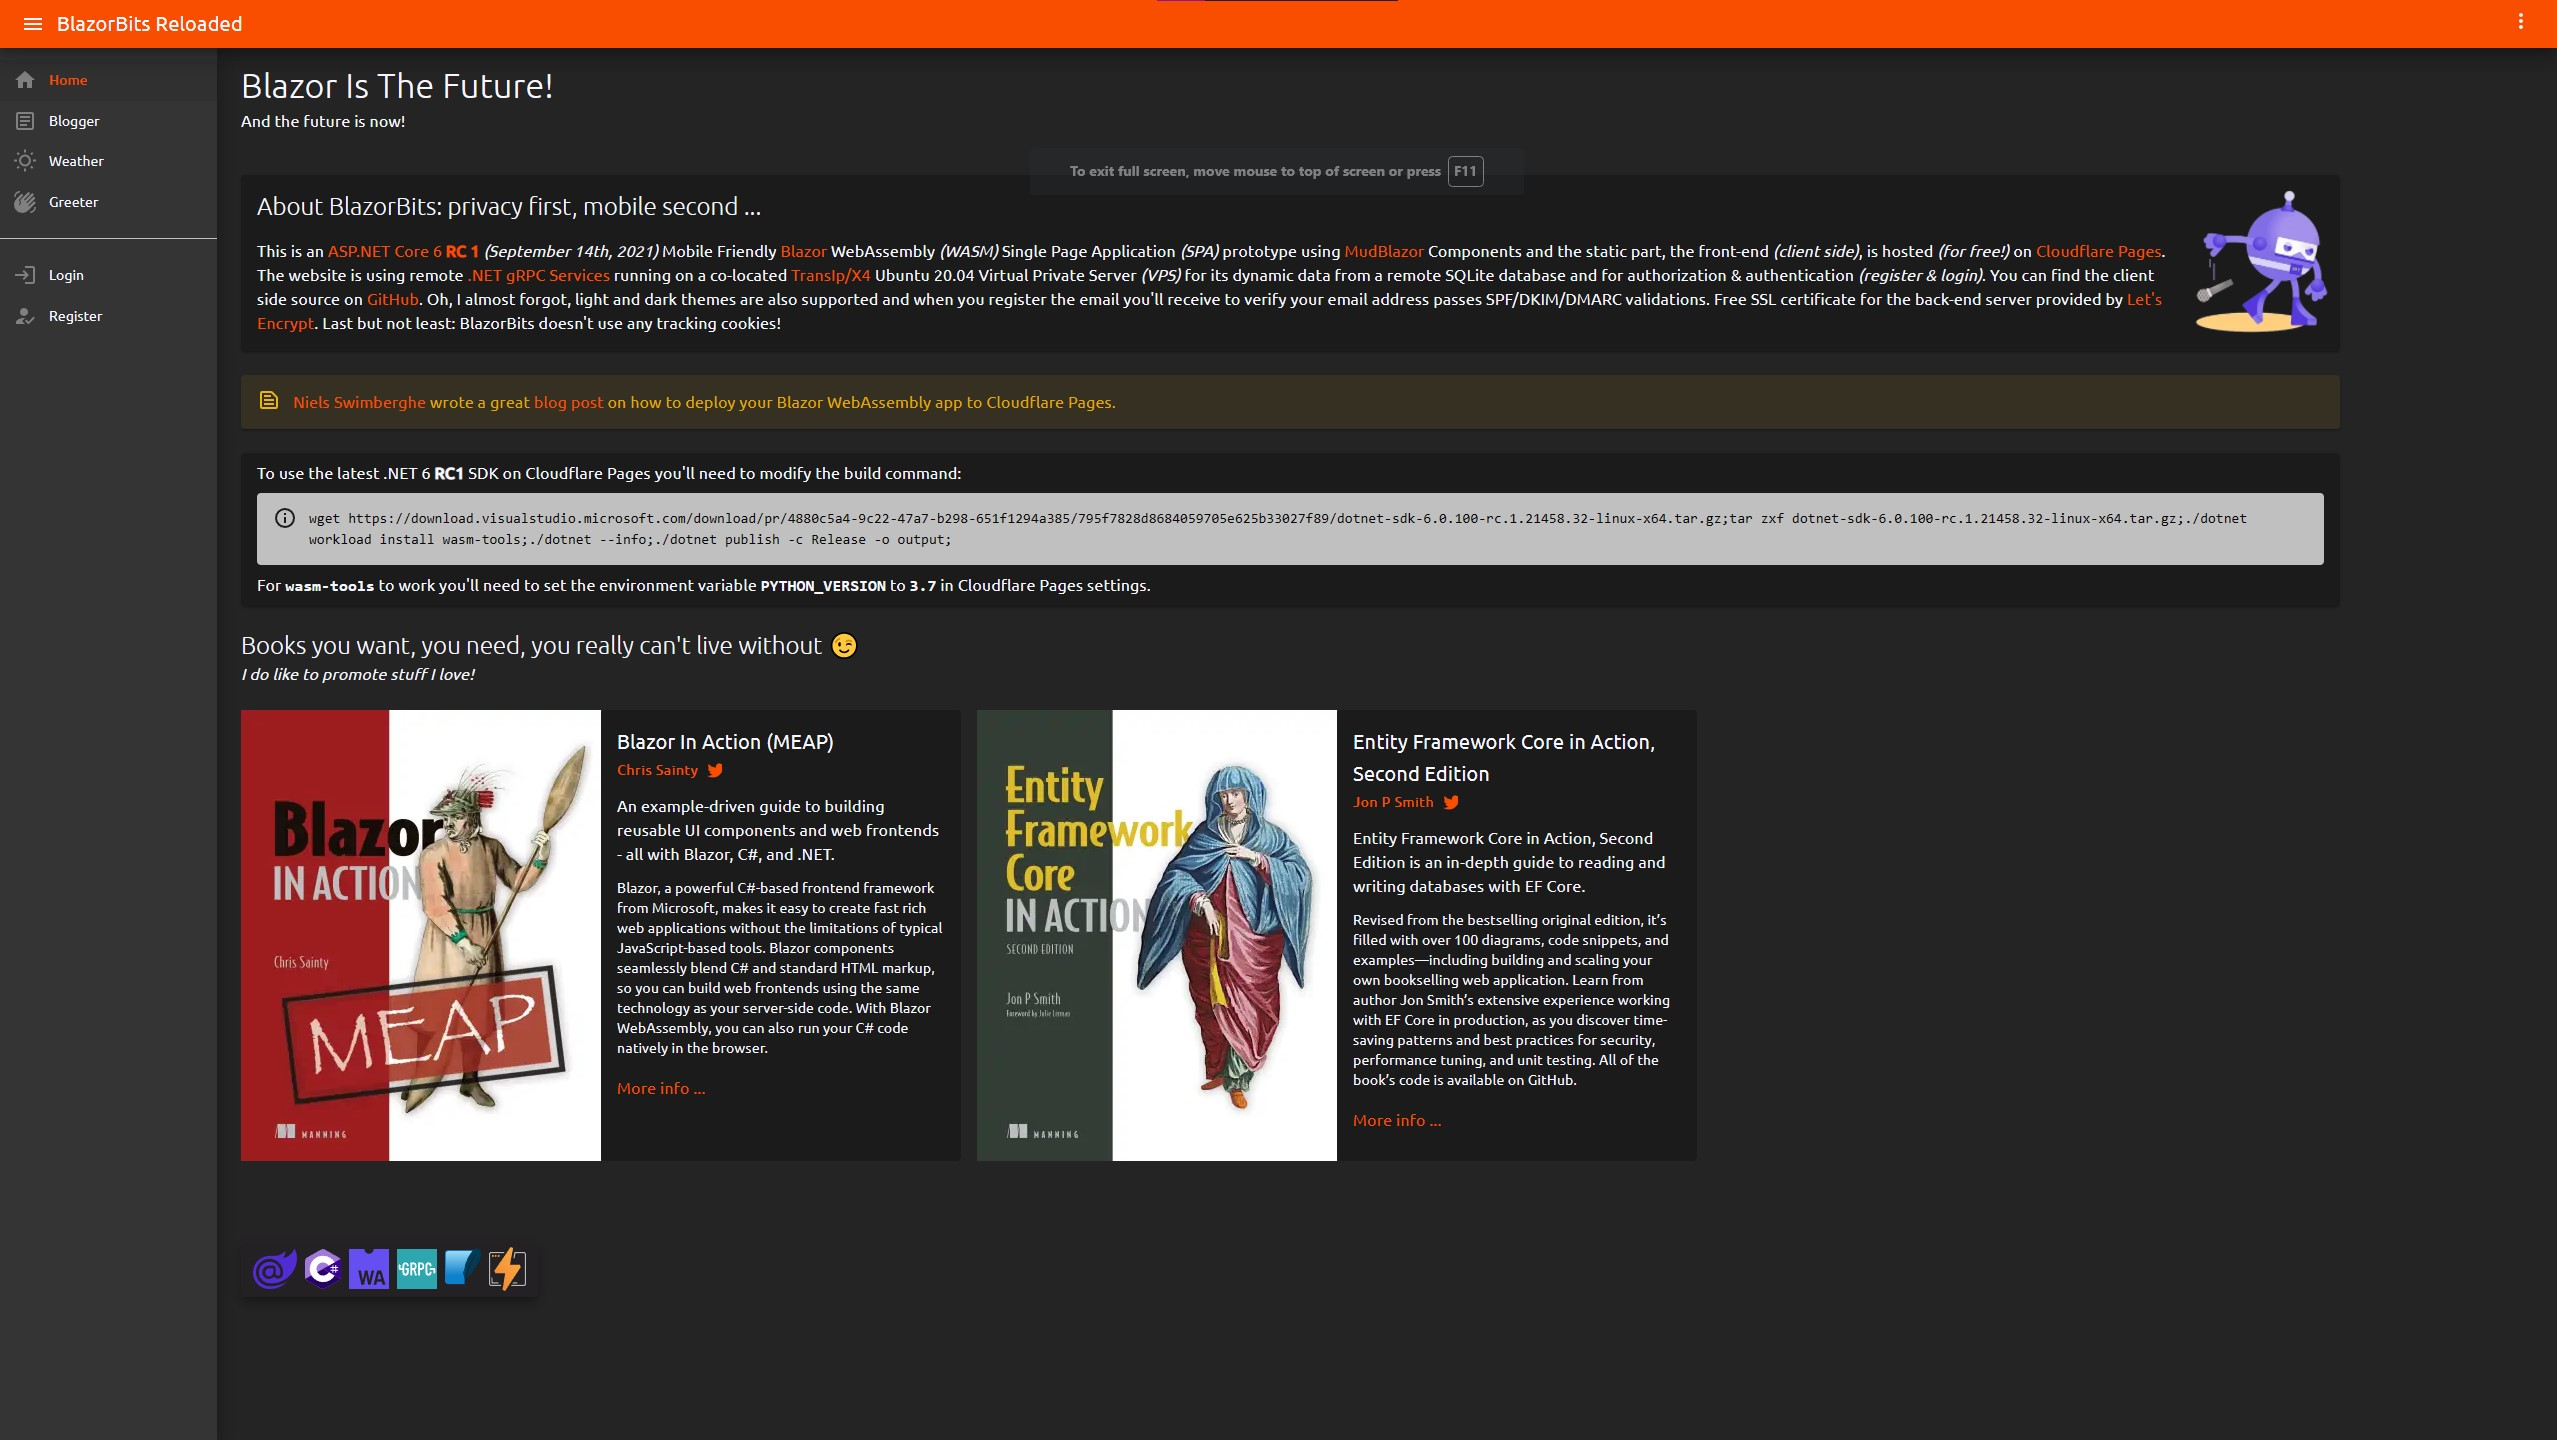
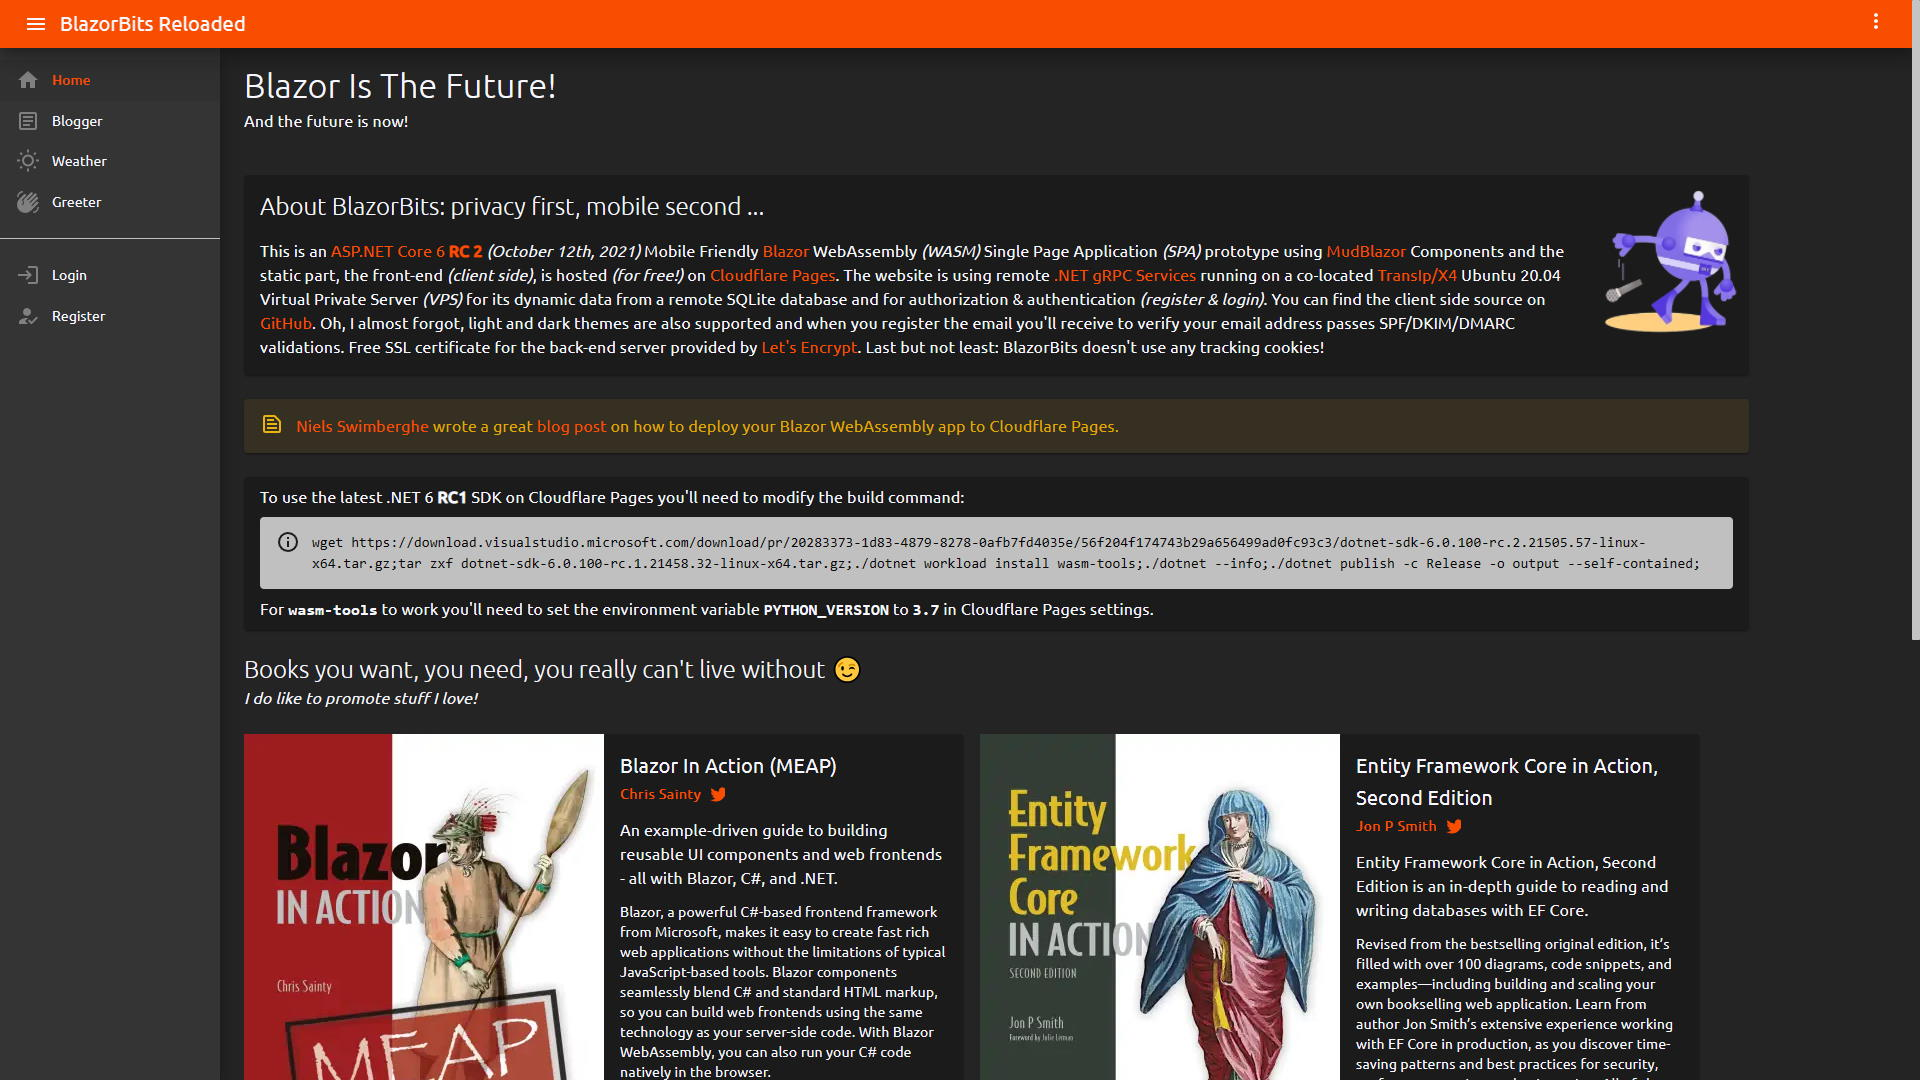
Upgraded to .NET 6 RC2 - RC TWOOOOO!

diff --git a/News/Program.cs b/News/Program.cs
@@ -6,74 +6,73 @@ using Microsoft.AspNetCore.Components.Web;
 using Microsoft.AspNetCore.Components.WebAssembly.Hosting;
 using MudBlazor;
 using MudBlazor.Services;
+using News;
 using News.Helpers;
 using News.Services;
 
-namespace News
+//namespace News;
+//public class Program
+//{
+//	public static async Task Main(string[] args)
+//	{
+var builder = WebAssemblyHostBuilder.CreateDefault(args);
+
+// Modify HTML <head> in components: https://devblogs.microsoft.com/aspnet/asp-net-core-updates-in-net-6-preview-7/
+builder.RootComponents.Add<HeadOutlet>("head::after");
+builder.RootComponents.Add<App>("#app");
+
+builder.Services.AddSingleton(sp => new HttpClient { BaseAddress = new Uri(builder.HostEnvironment.BaseAddress) });
+
+builder.Services.AddOptions();
+builder.Services.AddAuthorizationCore(config =>
 {
-	public class Program
+	config.AddPolicy(Policies.IsAdministrator, Policies.IsAdministratorPolicy());
+	config.AddPolicy(Policies.IsModerator, Policies.IsModeratorPolicy());
+	config.AddPolicy(Policies.IsUser, Policies.IsUserPolicy());
+});
+builder.Services.AddScoped<AuthenticationStateProvider, ApiAuthenticationStateProvider>();
+builder.Services.AddScoped<IAuthService, AuthService>();
+
+builder.Services.AddBlazoredLocalStorage();
+builder.Services.AddMudServices(config =>
+{
+	config.SnackbarConfiguration.PositionClass = Defaults.Classes.Position.TopCenter;
+	config.SnackbarConfiguration.PreventDuplicates = false;
+	config.SnackbarConfiguration.NewestOnTop = false;
+	config.SnackbarConfiguration.ShowCloseIcon = true;
+	config.SnackbarConfiguration.VisibleStateDuration = 5000;
+	config.SnackbarConfiguration.HideTransitionDuration = 250;
+	config.SnackbarConfiguration.ShowTransitionDuration = 250;
+	config.SnackbarConfiguration.SnackbarVariant = Variant.Filled;
+});
+
+builder.Services.AddSingleton(services =>
+{
+	var configuration = services.GetRequiredService<IConfiguration>();
+	var backendUrl = $"https://{configuration["Settings:BackEndUrl"]}";
+
+			// Create a channel with a GrpcWebHandler that is addressed to the backend server.
+			// GrpcWebText is used because server streaming requires it. If server streaming is not used in your app
+			// then GrpcWeb is recommended because it produces smaller messages.
+			var httpHandler = new GrpcWebHandler(GrpcWebMode.GrpcWebText, new HttpClientHandler());
+	return GrpcChannel.ForAddress(backendUrl, new GrpcChannelOptions
 	{
-		public static async Task Main(string[] args)
-		{
-			var builder = WebAssemblyHostBuilder.CreateDefault(args);
-
-			// Modify HTML <head> in components: https://devblogs.microsoft.com/aspnet/asp-net-core-updates-in-net-6-preview-7/
-			builder.RootComponents.Add<HeadOutlet>("head::after");
-			builder.RootComponents.Add<App>("#app");
-
-			builder.Services.AddSingleton(sp => new HttpClient { BaseAddress = new Uri(builder.HostEnvironment.BaseAddress) });
-
-			builder.Services.AddOptions();
-			builder.Services.AddAuthorizationCore(config =>
-			{
-				config.AddPolicy(Policies.IsAdministrator, Policies.IsAdministratorPolicy());
-				config.AddPolicy(Policies.IsModerator, Policies.IsModeratorPolicy());
-				config.AddPolicy(Policies.IsUser, Policies.IsUserPolicy());
+		HttpHandler = httpHandler
+				//MaxReceiveMessageSize = 1 * 1024 * 1024, // 1MB
+				//MaxSendMessageSize = 1 * 1024 * 1024, // 1MB
+				//MaxRetryAttempts = 3 // ?? #TODO
 			});
-			builder.Services.AddScoped<AuthenticationStateProvider, ApiAuthenticationStateProvider>();
-			builder.Services.AddScoped<IAuthService, AuthService>();
+});
 
-			builder.Services.AddBlazoredLocalStorage();
-			builder.Services.AddMudServices(config =>
-			{
-				config.SnackbarConfiguration.PositionClass = Defaults.Classes.Position.TopCenter;
-				config.SnackbarConfiguration.PreventDuplicates = false;
-				config.SnackbarConfiguration.NewestOnTop = false;
-				config.SnackbarConfiguration.ShowCloseIcon = true;
-				config.SnackbarConfiguration.VisibleStateDuration = 5000;
-				config.SnackbarConfiguration.HideTransitionDuration = 250;
-				config.SnackbarConfiguration.ShowTransitionDuration = 250;
-				config.SnackbarConfiguration.SnackbarVariant = Variant.Filled;
-			});
+builder.Services.AddSingleton<ClipboardService>();
 
-			builder.Services.AddSingleton(services =>
-			{
-				var configuration = services.GetRequiredService<IConfiguration>();
-				var backendUrl = $"https://{configuration["Settings:BackEndUrl"]}";
+// Singleton is perfect for a client-side Blazor app, but if you are working with server-side Blazor,
+// you will want to register as a Scoped service so each different user receives his/her own instance
+// of the service for the duration of their session.
+// https://wellsb.com/csharp/aspnet/blazor-singleton-pass-data-between-pages
 
-				// Create a channel with a GrpcWebHandler that is addressed to the backend server.
-				// GrpcWebText is used because server streaming requires it. If server streaming is not used in your app
-				// then GrpcWeb is recommended because it produces smaller messages.
-				var httpHandler = new GrpcWebHandler(GrpcWebMode.GrpcWebText, new HttpClientHandler());
-				return GrpcChannel.ForAddress(backendUrl, new GrpcChannelOptions
-				{
-					HttpHandler = httpHandler
-					//MaxReceiveMessageSize = 1 * 1024 * 1024, // 1MB
-					//MaxSendMessageSize = 1 * 1024 * 1024, // 1MB
-					//MaxRetryAttempts = 3 // ?? #TODO
-				});
-			});
+builder.Services.AddSingleton<UserCookieService>();
 
-			builder.Services.AddSingleton<ClipboardService>();
-
-			// Singleton is perfect for a client-side Blazor app, but if you are working with server-side Blazor,
-			// you will want to register as a Scoped service so each different user receives his/her own instance
-			// of the service for the duration of their session.
-			// https://wellsb.com/csharp/aspnet/blazor-singleton-pass-data-between-pages
-
-			builder.Services.AddSingleton<UserCookieService>();
-
-			await builder.Build().RunAsync();
-		}
-	}
-}
+await builder.Build().RunAsync();
+//	}
+//}

diff --git a/README.md b/README.md
@@ -4,9 +4,9 @@ Live Site: https://blazorbits.openwiki.com/
 
 [Niels Swimberghe](https://twitter.com/RealSwimburger) wrote a great [blog post](https://swimburger.net/blog/dotnet/how-to-deploy-blazor-webassembly-to-cloudflare-pages) on how to deploy your Blazor WebAssembly Static Website to [CloudFlare Pages](https://pages.cloudflare.com/).
 
-To use the latest .NET 6 RC1 SDK on Cloudflare Pages you'll need to modify the build command: 👇
+To use the latest .NET 6 RC2 SDK on Cloudflare Pages you'll need to modify the build command: 👇
 
-`wget https://download.visualstudio.microsoft.com/download/pr/4880c5a4-9c22-47a7-b298-651f1294a385/795f7828d8684059705e625b33027f89/dotnet-sdk-6.0.100-rc.1.21458.32-linux-x64.tar.gz;tar zxf dotnet-sdk-6.0.100-rc.1.21458.32-linux-x64.tar.gz;./dotnet workload install wasm-tools;./dotnet --info;./dotnet publish -c Release -o output;`
+`wget https://download.visualstudio.microsoft.com/download/pr/20283373-1d83-4879-8278-0afb7fd4035e/56f204f174743b29a656499ad0fc93c3/dotnet-sdk-6.0.100-rc.2.21505.57-linux-x64.tar.gz;tar zxf dotnet-sdk-6.0.100-rc.1.21458.32-linux-x64.tar.gz;./dotnet workload install wasm-tools;./dotnet --info;./dotnet publish -c Release -o output --self-contained;`
 
 For **wasm-tools** to work you'll need to set the environment variable **PYTHON_VERSION** to **3.7** in Cloudflare Pages settings.
 
